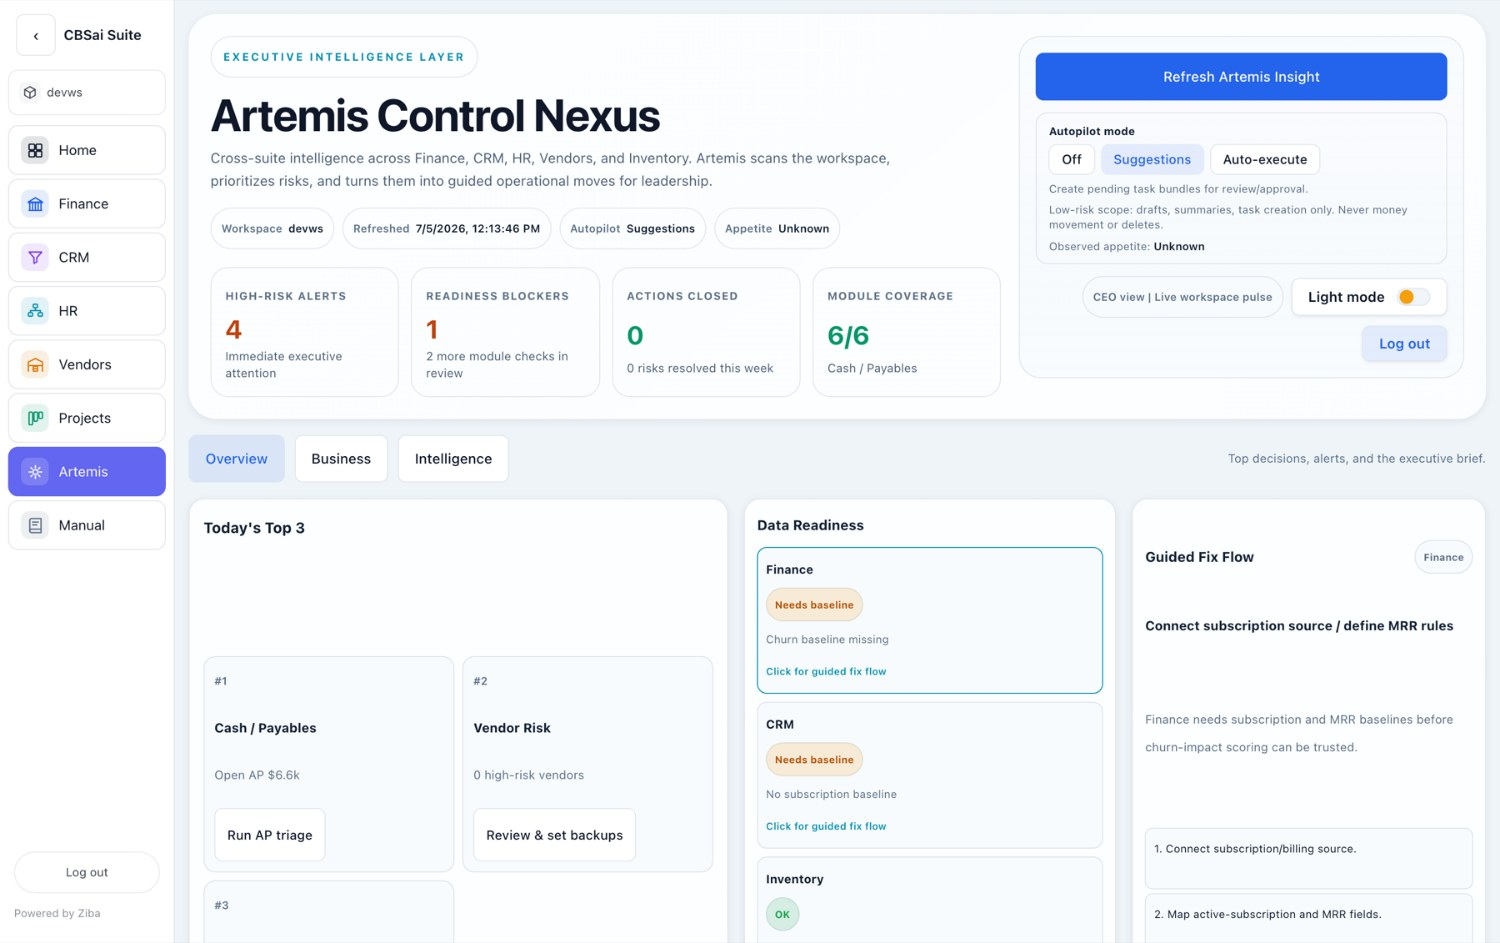
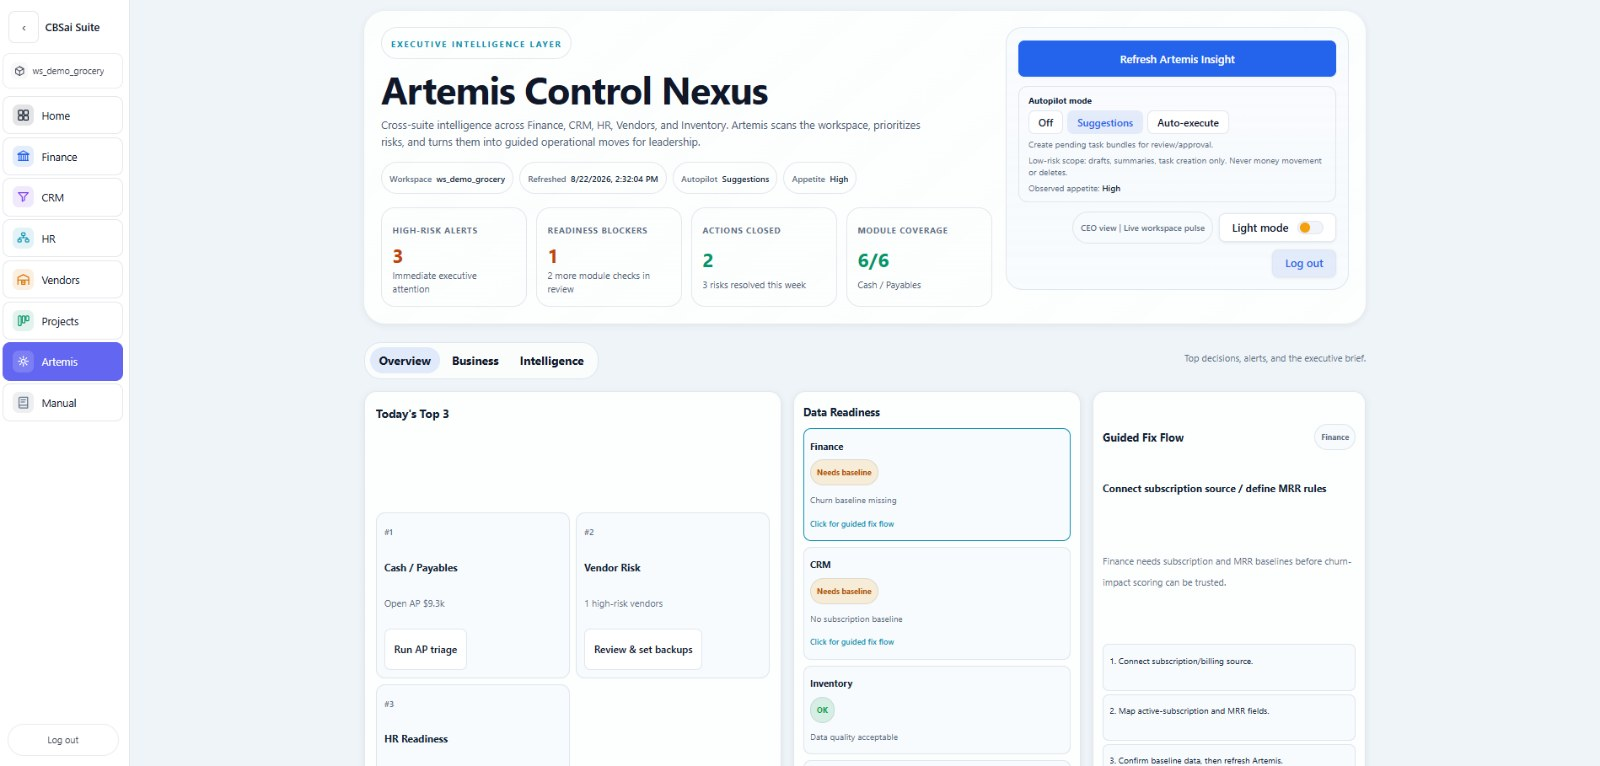
Replace product screenshots with current captures from salma
Swapped the three staging-derived images for fresh captures supplied
from the desktop. These are genuinely newer builds:

  number3 -> Artemis  Control Nexus, refreshed 8/22/2026, appetite
                      High, guided fix flow visible
  number1 -> Finance  gains Statements, Accounting, Analytics and
                      Governance tabs, plus AI Smart Summary
  number2 -> CRM      pipeline value, open/won deals, at-risk
                      follow-ups, and a Jupiter AI tab

Reviewed each before publishing: workspace is ws_demo_grocery, account
names are fictional (Fresh Wholesale Co, Cafe District, Green Grocer
Chain, Hotel Belmont), no PII or credentials present.

Aspect ratio changed from 1.59 to 2.11, so the width/height attributes
were updated from 1500x943 to 1600x766 and 1600x759. Leaving the old
values would have reserved the wrong space and caused layout shift.

Captions rewritten to describe what is actually visible now rather than
repeating the previous copy: the guided fix flow, AI Smart Summary, and
at-risk follow-ups are each named because each is a concrete capability
a buyer can see rather than infer.

Re-encoded to 1600px JPEG, 92-106KB each - smaller than the images they
replace despite being wider.

Verified: 9 pages x 1440/768/375, 0 overflow and 0 console errors. All
three images load. 60fps on platform, security, careers. Build and tsc
clean.

diff --git a/platform.html b/platform.html
@@ -27,18 +27,18 @@
 <p>Screenshots from the CBSai workspace, not illustrations. Figures shown are from a development workspace, so the numbers are test data &mdash; the interface, the agents and the controls are real.</p></div>
 
 <figure class="shot shot-lead">
-  <div class="shot-frame"><img src="/product-artemis.jpg" width="1500" height="943" loading="lazy" decoding="async" alt="Artemis Control Nexus: executive intelligence across Finance, CRM, HR, Vendors and Inventory, showing high-risk alerts, readiness blockers, module coverage and an autopilot mode selector." /></div>
-  <figcaption><b>Artemis Control Nexus.</b> Cross-suite intelligence with an explicit <b>autopilot setting</b> &mdash; Off, Suggestions, or Auto-execute &mdash; scoped so agents draft and summarise but <b>never move money or delete</b>. Human approval is a control in the product, not a claim on a website.</figcaption>
+  <div class="shot-frame"><img src="/product-artemis.jpg" width="1600" height="766" loading="lazy" decoding="async" alt="Artemis Control Nexus: executive intelligence across Finance, CRM, HR, Vendors and Inventory, showing three high-risk alerts, readiness blockers, module coverage, an autopilot mode selector and a guided fix flow." /></div>
+  <figcaption><b>Artemis Control Nexus.</b> Cross-suite intelligence with an explicit <b>autopilot setting</b> &mdash; Off, Suggestions, or Auto-execute &mdash; scoped so agents draft and summarise but <b>never move money or delete</b>. Human approval is a control in the product, not a claim on a website. Where a module lacks the data to be trusted, Artemis says so and offers a guided fix rather than guessing.</figcaption>
 </figure>
 
 <div class="shot-pair">
   <figure class="shot">
-    <div class="shot-frame"><img src="/product-finance.jpg" width="1500" height="943" loading="lazy" decoding="async" alt="CBSai Finance dashboard showing financial summary, revenue and cost sources broken down by module, and net profit across all sources." /></div>
-    <figcaption><b>Finance &amp; Analysis.</b> Revenue and cost attributed to the module that produced them &mdash; CRM, inventory, vendors, HR payroll, projects &mdash; so a number can be traced to the work behind it. Ziba runs the assistant tab.</figcaption>
+    <div class="shot-frame"><img src="/product-finance.jpg" width="1600" height="759" loading="lazy" decoding="async" alt="CBSai Finance dashboard with Overview, Transactions, Statements, Accounting, Revenue, Analytics, Assistant and Governance tabs, showing revenue and cost sources attributed by module and an AI smart summary generator." /></div>
+    <figcaption><b>Finance &amp; Analysis.</b> Revenue and cost attributed to the module that produced them &mdash; CRM, inventory, vendors, HR payroll, projects &mdash; so a number can be traced to the work behind it. Statements, accounting and governance sit in the same surface, and <b>AI Smart Summary</b> turns the workspace into an executive report on demand.</figcaption>
   </figure>
   <figure class="shot">
-    <div class="shot-frame"><img src="/product-crm.jpg" width="1500" height="943" loading="lazy" decoding="async" alt="CBSai CRM Command Center showing customer and revenue operations inside the connected workspace." /></div>
-    <figcaption><b>CRM Command Center.</b> Accounts and revenue operations in the same workspace as delivery and finance, so customer commitments stay attached to the work that fulfils them. Jupiter runs this surface.</figcaption>
+    <div class="shot-frame"><img src="/product-crm.jpg" width="1600" height="759" loading="lazy" decoding="async" alt="CBSai CRM Command Center showing pipeline value, open and won deals, at-risk follow-ups, and an accounts list with Sales, Service, Revenue, Support, Workspace and Jupiter AI tabs." /></div>
+    <figcaption><b>CRM Command Center.</b> Pipeline, open and won deals, and <b>at-risk follow-ups</b> on one surface &mdash; in the same workspace as delivery and finance, so customer commitments stay attached to the work that fulfils them. Jupiter runs this surface.</figcaption>
   </figure>
 </div>
 
